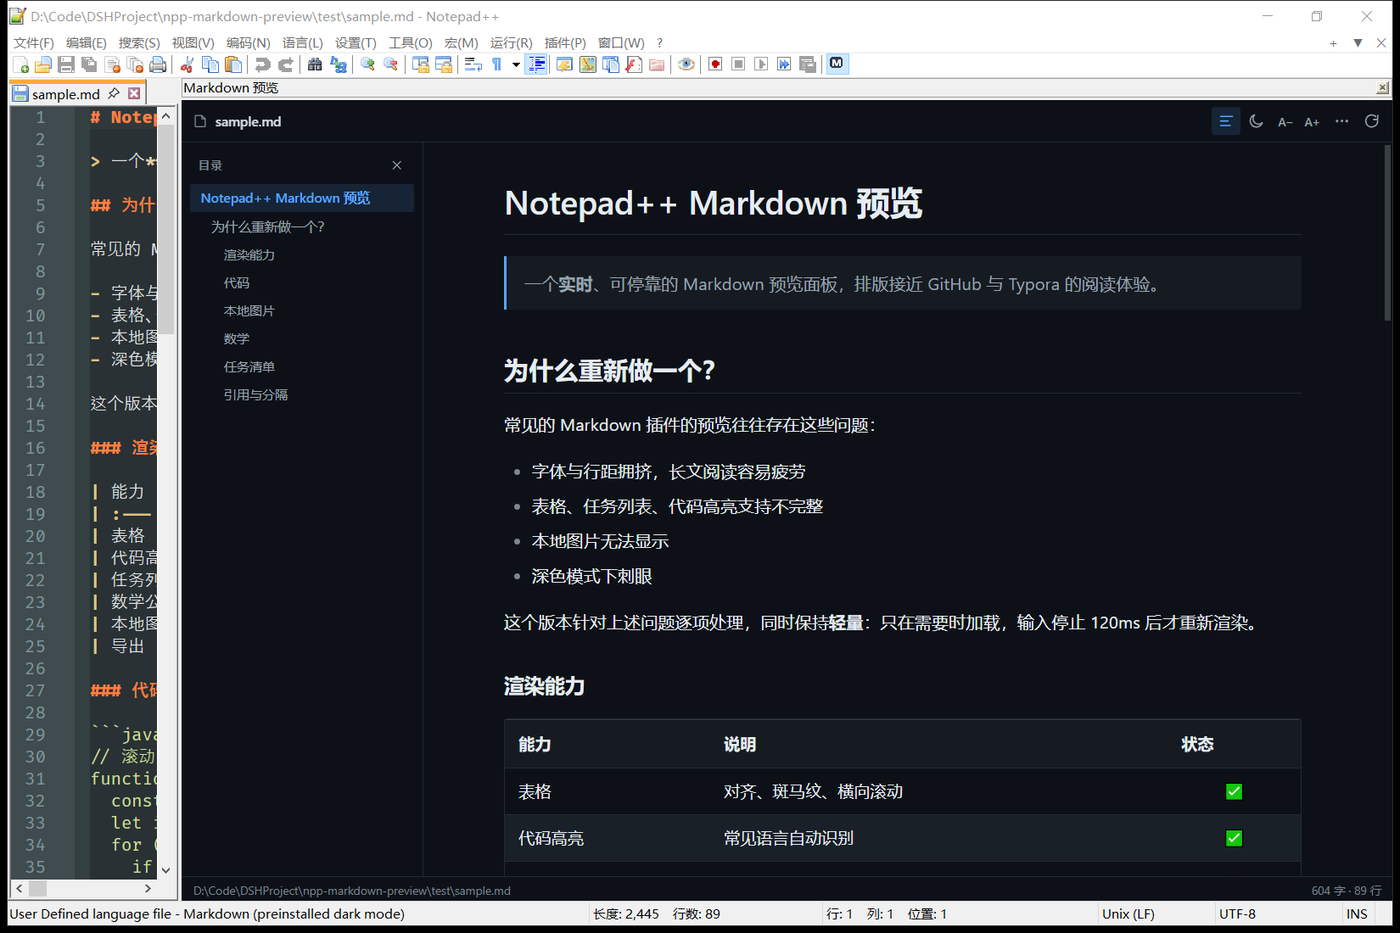
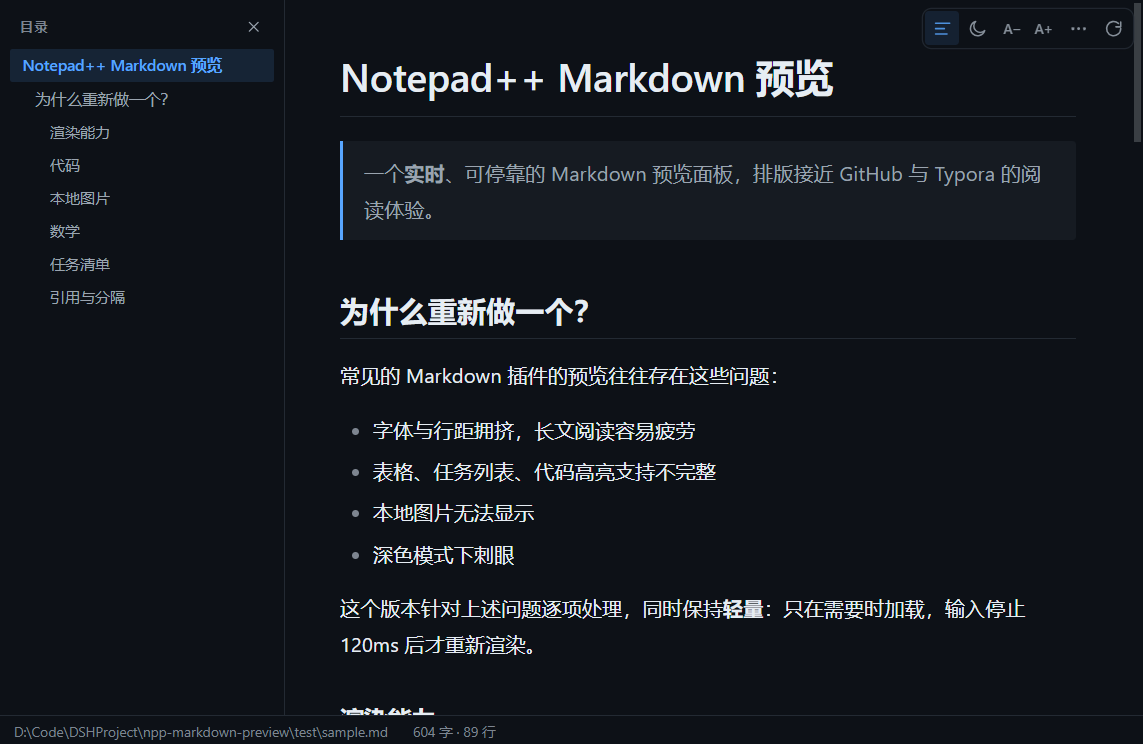
style: drop the title bar, float the toolbar over the top-right corner
- 去掉顶部标题栏（文件名 + 分隔线），预览区从顶端直接开始
- 工具栏收成右上角的浮动胶囊：半透明、悬停变实、带 1px 描边和轻投影
- 文件名不再显示，路径仍在底部状态栏
- 没有文档时的骨架占位同步调整，右上角画出胶囊轮廓
- 打印样式里隐藏浮动工具栏
- README 截图按新布局重新生成

diff --git a/web/style.css b/web/style.css
@@ -79,56 +79,26 @@ body {
 
 /* ------------------------------------------------------------ toolbar --- */
 
-#bar {
-  flex: 0 0 auto;
-  height: 40px;
-  display: flex;
-  align-items: center;
-  gap: 6px;
-  padding: 0 7px 0 10px;
-  border-bottom: 1px solid var(--border-soft);
-  background: var(--bg);
-  user-select: none;
-  position: relative;
-  z-index: 30;
-}
-
-.brand {
-  display: flex;
-  align-items: center;
-  gap: 7px;
-  min-width: 0;
-  color: var(--fg-muted);
-}
-
-.brand svg { flex: 0 0 auto; opacity: 0.85; }
-
-#doc-name {
-  font-size: 12.5px;
-  font-weight: 500;
-  color: var(--fg);
-  white-space: nowrap;
-  overflow: hidden;
-  text-overflow: ellipsis;
-  max-width: 46vw;
-  opacity: 0.92;
-}
-
-#doc-name.dirty::after {
-  content: "•";
-  margin-left: 5px;
-  color: var(--accent);
-}
-
-.spacer { flex: 1 1 auto; }
-
+/* the toolbar floats over the document at the top right; there is no title bar */
 .tools {
+  position: absolute;
+  top: 7px;
+  right: 9px;
+  z-index: 40;
   display: flex;
   align-items: center;
   gap: 1px;
-  flex: 0 0 auto;
+  padding: 2px;
+  border-radius: 7px;
+  background: var(--bg);
+  box-shadow: 0 0 0 1px var(--border-soft), 0 2px 6px rgba(0, 0, 0, 0.07);
+  opacity: 0.86;
+  transition: opacity 0.14s ease;
+  user-select: none;
 }
 
+.tools:hover,
+.tools:focus-within { opacity: 1; }
 .tbtn {
   appearance: none;
   border: 0;
@@ -197,7 +167,7 @@ html[data-theme-mode="auto"] #btn-theme .i-auto { display: block; }
   display: flex;
   flex-direction: column;
   gap: 14px;
-  padding: 34px 44px;
+  padding: 40px 44px;
   pointer-events: none;
   overflow: hidden;
 }
@@ -226,7 +196,7 @@ html.booting #error { display: none !important; }
 #doc {
   max-width: 840px;
   margin: 0 auto;
-  padding: 34px 44px 140px;
+  padding: 40px 44px 140px;
   background: transparent !important;
   color: var(--fg) !important;
   font-family: var(--ui-font);
@@ -849,7 +819,7 @@ body.print-mode .h-anchor { display: none !important; }
     color: #000 !important;
   }
 
-  #bar, #toc, #status, .menu, #lightbox, #toast { display: none !important; }
+  .tools, #toc, #status, .menu, #lightbox, #toast { display: none !important; }
 
   #main { display: block; }
   #scroll { overflow: visible; }

diff --git a/web/index.html b/web/index.html
@@ -16,18 +16,7 @@
 <body class="no-toc">
 
 <div id="app">
-  <!-- ------------------------------------------------ toolbar -->
-  <header id="bar">
-    <div class="brand" title="Markdown 预览">
-      <svg viewBox="0 0 24 24" width="15" height="15" aria-hidden="true">
-        <path d="M5 4h9l5 5v11a1 1 0 0 1-1 1H5a1 1 0 0 1-1-1V5a1 1 0 0 1 1-1z" fill="none" stroke="currentColor" stroke-width="1.6" stroke-linejoin="round"/>
-        <path d="M14 4v5h5" fill="none" stroke="currentColor" stroke-width="1.6" stroke-linejoin="round"/>
-      </svg>
-      <span id="doc-name">未命名</span>
-    </div>
-
-    <div class="spacer"></div>
-
+  <!-- ------------------------------------------------ floating tools -->
     <div class="tools">
       <button id="btn-toc" class="tbtn" data-i18n-title="tocToggle" title="显示 / 隐藏目录" aria-label="目录">
         <svg viewBox="0 0 24 24" width="17" height="17" aria-hidden="true">
@@ -66,7 +55,7 @@
         </svg>
       </button>
     </div>
-  </header>
+
 
   <!-- ------------------------------------------------ content -->
   <div id="main">

diff --git a/web/app.js b/web/app.js
@@ -614,8 +614,12 @@
       if (typeof meta.lang === 'string' && meta.lang !== lang) applyLang(meta.lang);
     }
     state.name = state.path ? basename(state.path) : t('untitled');
-    $('doc-name').textContent = state.name;
-    $('doc-name').title = state.path || '';
+    // the title bar is gone; the status bar carries the path instead
+    const nameEl = $('doc-name');
+    if (nameEl) {
+      nameEl.textContent = state.name;
+      nameEl.title = state.path || '';
+    }
 
     const pathChanged = state.renderedPath !== state.path;
     state.renderedPath = state.path;

diff --git a/src/plugin.cpp b/src/plugin.cpp
@@ -457,9 +457,23 @@ static void PaintSkeleton(HWND hwnd, HDC dc) {
 
     HBRUSH barBrush = CreateSolidBrush(bar);
 
+    // floating toolbar pill in the top right corner
+    {
+        const int pillW = S(150);
+        const int pillH = S(26);
+        RECT pill = {rc.right - S(9) - pillW, S(7), rc.right - S(9), S(7) + pillH};
+        HBRUSH pillBrush = CreateSolidBrush(g_dark ? RGB(30, 37, 46) : RGB(246, 248, 250));
+        HGDIOBJ oldBrush = SelectObject(dc, pillBrush);
+        HGDIOBJ oldPen = SelectObject(dc, GetStockObject(NULL_PEN));
+        RoundRect(dc, pill.left, pill.top, pill.right, pill.bottom, S(8), S(8));
+        SelectObject(dc, oldBrush);
+        SelectObject(dc, oldPen);
+        DeleteObject(pillBrush);
+    }
+
     // table of contents column
     const int tocW = S(228);
-    int ty = S(58);
+    int ty = S(16);
     const int tocWidths[7] = {66, 118, 100, 88, 108, 80, 94};
     for (int i = 0; i < 7; ++i) {
         RECT r = {S(12), ty, S(12) + S(tocWidths[i]), ty + S(9)};
@@ -472,7 +486,7 @@ static void PaintSkeleton(HWND hwnd, HDC dc) {
     const int x1 = rc.right - S(44);
     if (x1 > x0 + S(120)) {
         const int w = x1 - x0;
-        int y = S(44);
+        int y = S(20);
         RECT title = {x0, y, x0 + w * 58 / 100, y + S(26)};
         FillRect(dc, &title, barBrush);
         y += S(26) + S(28);
@@ -1112,7 +1126,7 @@ static void CmdPrint() {
 
 static void CmdAbout() {
     std::wstring text = mdtr::English()
-        ? std::wstring(L"Markdown Preview v1.2.2\n\n"
+        ? std::wstring(L"Markdown Preview v1.3.0\n\n"
                        L"A live, dockable Markdown preview for Notepad++:\n"
                        L"\u2022 GitHub-style typography, tables / task lists / strikethrough\n"
                        L"\u2022 Syntax highlighting with one-click copy\n"
@@ -1122,7 +1136,7 @@ static void CmdAbout() {
                        L"Renderer: Microsoft Edge WebView2 (installed)\n"
                        L"Shortcuts: Ctrl+Alt+P toggles the panel, Ctrl+Alt+R refreshes\n\n"
                        L"Config file:\n")
-        : std::wstring(L"Markdown 预览 v1.2.2\n\n"
+        : std::wstring(L"Markdown 预览 v1.3.0\n\n"
                        L"为 Notepad++ 提供实时、可停靠的 Markdown 预览：\n"
                        L"• GitHub 风格排版，表格 / 任务列表 / 删除线\n"
                        L"• 代码语法高亮，一键复制\n"
